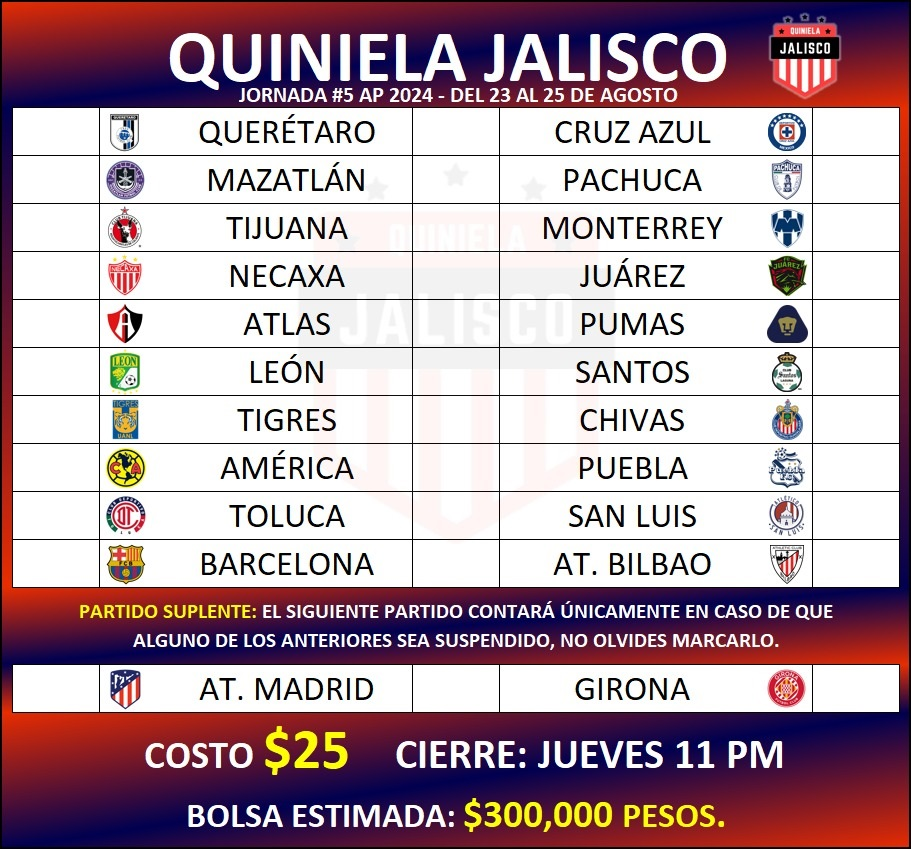
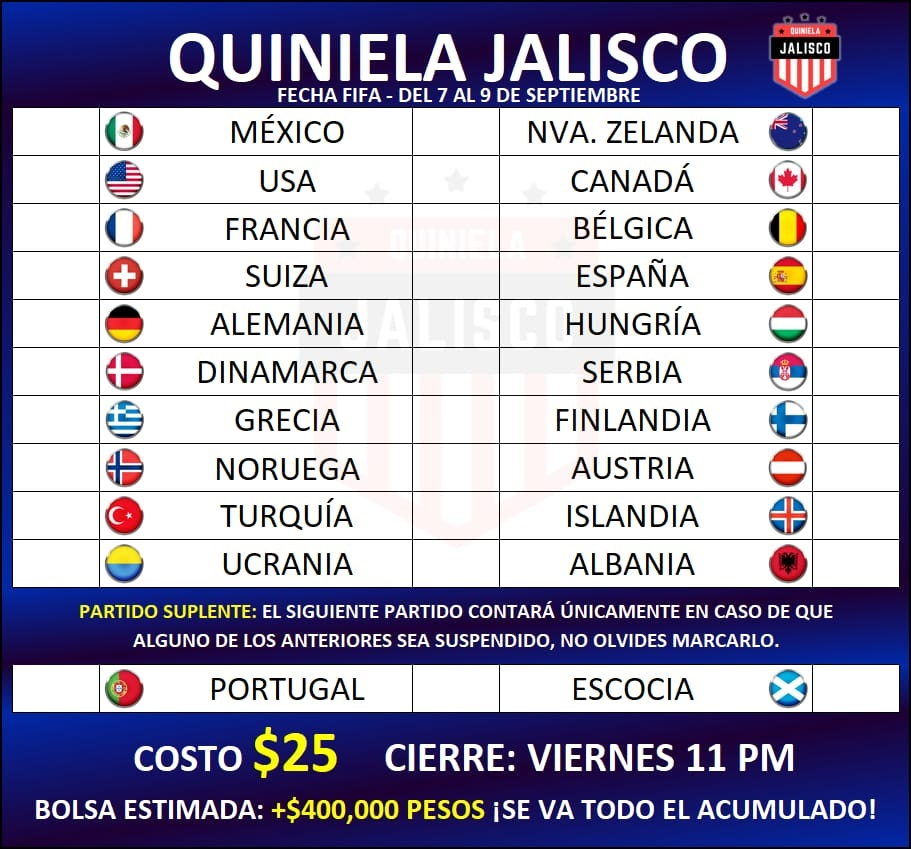
Fecha fifa

diff --git a/11/styles11.css b/11/styles11.css
@@ -95,8 +95,8 @@ body{
     margin-top: 8.5%;
     border-top: solid 1px black;
     border-radius: 0 0 14px 14px;
-    background: -webkit-linear-gradient(0.49turn, rgb(11 1 94) -7%, rgb(176 35 20) 80%);
-    background: linear-gradient(0.49turn, rgb(11 1 94) -7%, rgb(176 35 20) 80%);
+    background: -webkit-linear-gradient(0.49turn, rgb(27 3 61) -7%, rgb(12, 24, 122) 80%);
+    background: linear-gradient(0.49turn, rgb(27 3 61) -7%, rgb(12, 24, 122) 80%);
 }
 
 .text-lg{
@@ -293,7 +293,7 @@ h6{
 }
 
 #cantidad:before{
-    content:'$300,000 pesos';
+    content:'+$400,000 pesos\A¡Se reparte todo el acumulado!';
     color: yellow;
     white-space:pre;
 }
